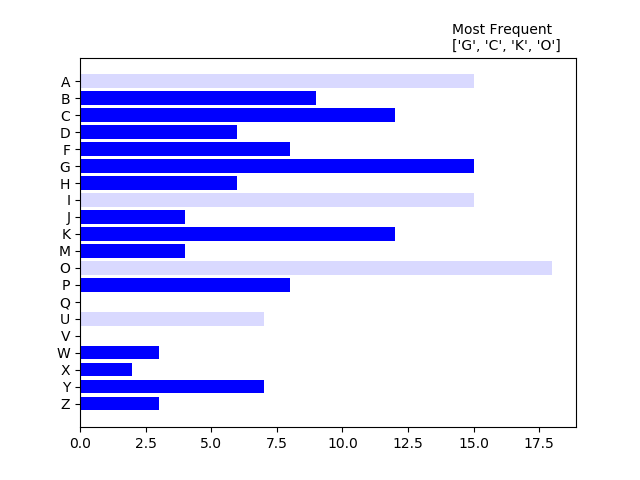
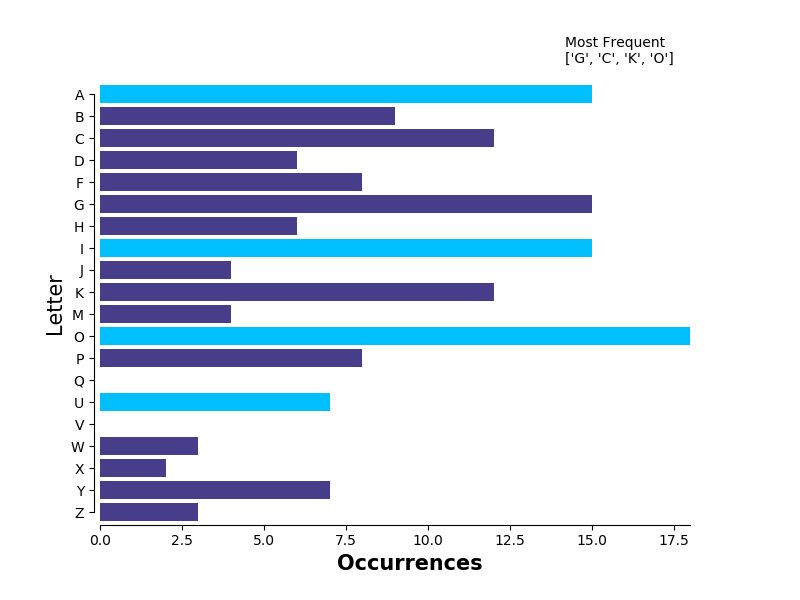
made graphs prettier

Changed region(s): [[0.0625, 0.0312, 0.875, 0.9688]]

diff --git a/analysis.py b/analysis.py
@@ -1,7 +1,6 @@
 # TODO analyze based on category, note weird categories in README
 # TODO compare actual guessed letters with best letters
 # TODO write about best 3 consonants/1 vowel to guess in README
-# TODO make graphs prettier
 # TODO write functions to print categories and letters
 # TODO organize code
 # TODO comment
@@ -36,20 +35,51 @@ def puzzle_letter_occurence():
   return series
 
 def print_barh_graph(keys,values,savename="image.png",most_frequent_l=[]):
-  plt.clf()
-  light_blue = [0,0,1,0.15]
-  bar_colors = ['blue']*20
+  # set the colors of the bars
+  # vowels are colored lighter
+  light_blue = '#00BFFF' 
+  bar_colors = ['#483D8B']*20
   bar_colors[0] = light_blue
   bar_colors[7] = light_blue
   bar_colors[11] = light_blue
   bar_colors[14] = light_blue
 
+  # instantiate figure and axes
+  # also set figure size
+  fig, ax = plt.subplots(figsize=(8,6))
+
+  # set the axis labels
+  ax.set_xlabel('Occurrences', fontsize=15)
+  ax.set_ylabel('Letter', fontsize=15)
+
+  # plot the plot
   plt.barh(keys,values,color=bar_colors)
 
+  # hide the top and right spines
+  ax.spines['top'].set_visible(False)
+  ax.spines['right'].set_visible(False)
+
+  # set prettier bounds on y axis
+  ax.set_ylim((-1, 20))
+  y_placeholder = list(range(0,len(keys)))
+  ax.set_yticks(y_placeholder)
+  ax.set_yticklabels(keys)
+  ax.spines['left'].set_bounds(0, 19)
+
+  # set prettier bounds on x axis
+  ax.spines['bottom'].set_smart_bounds(True)
+
+  # adjust placement of axes
+  ax.spines['bottom'].set_position(('axes', 0.02))
+  ax.spines['left'].set_position(('axes', -0.01))
+
+  # if this is a category plot, add a text with the 3 most common consonants and the most common vowel
   if len(most_frequent_l)>0: 
     plt.text(0.75, 1.02, 'Most Frequent\n' + str(most_frequent_l), transform=plt.gca().transAxes)
 
+  # invert the axis so A is on top and Z is on the bottom
   plt.gca().invert_yaxis()
+
   plt.savefig('graphs/'+savename)
   
 def print_overall_letter_occurence():
